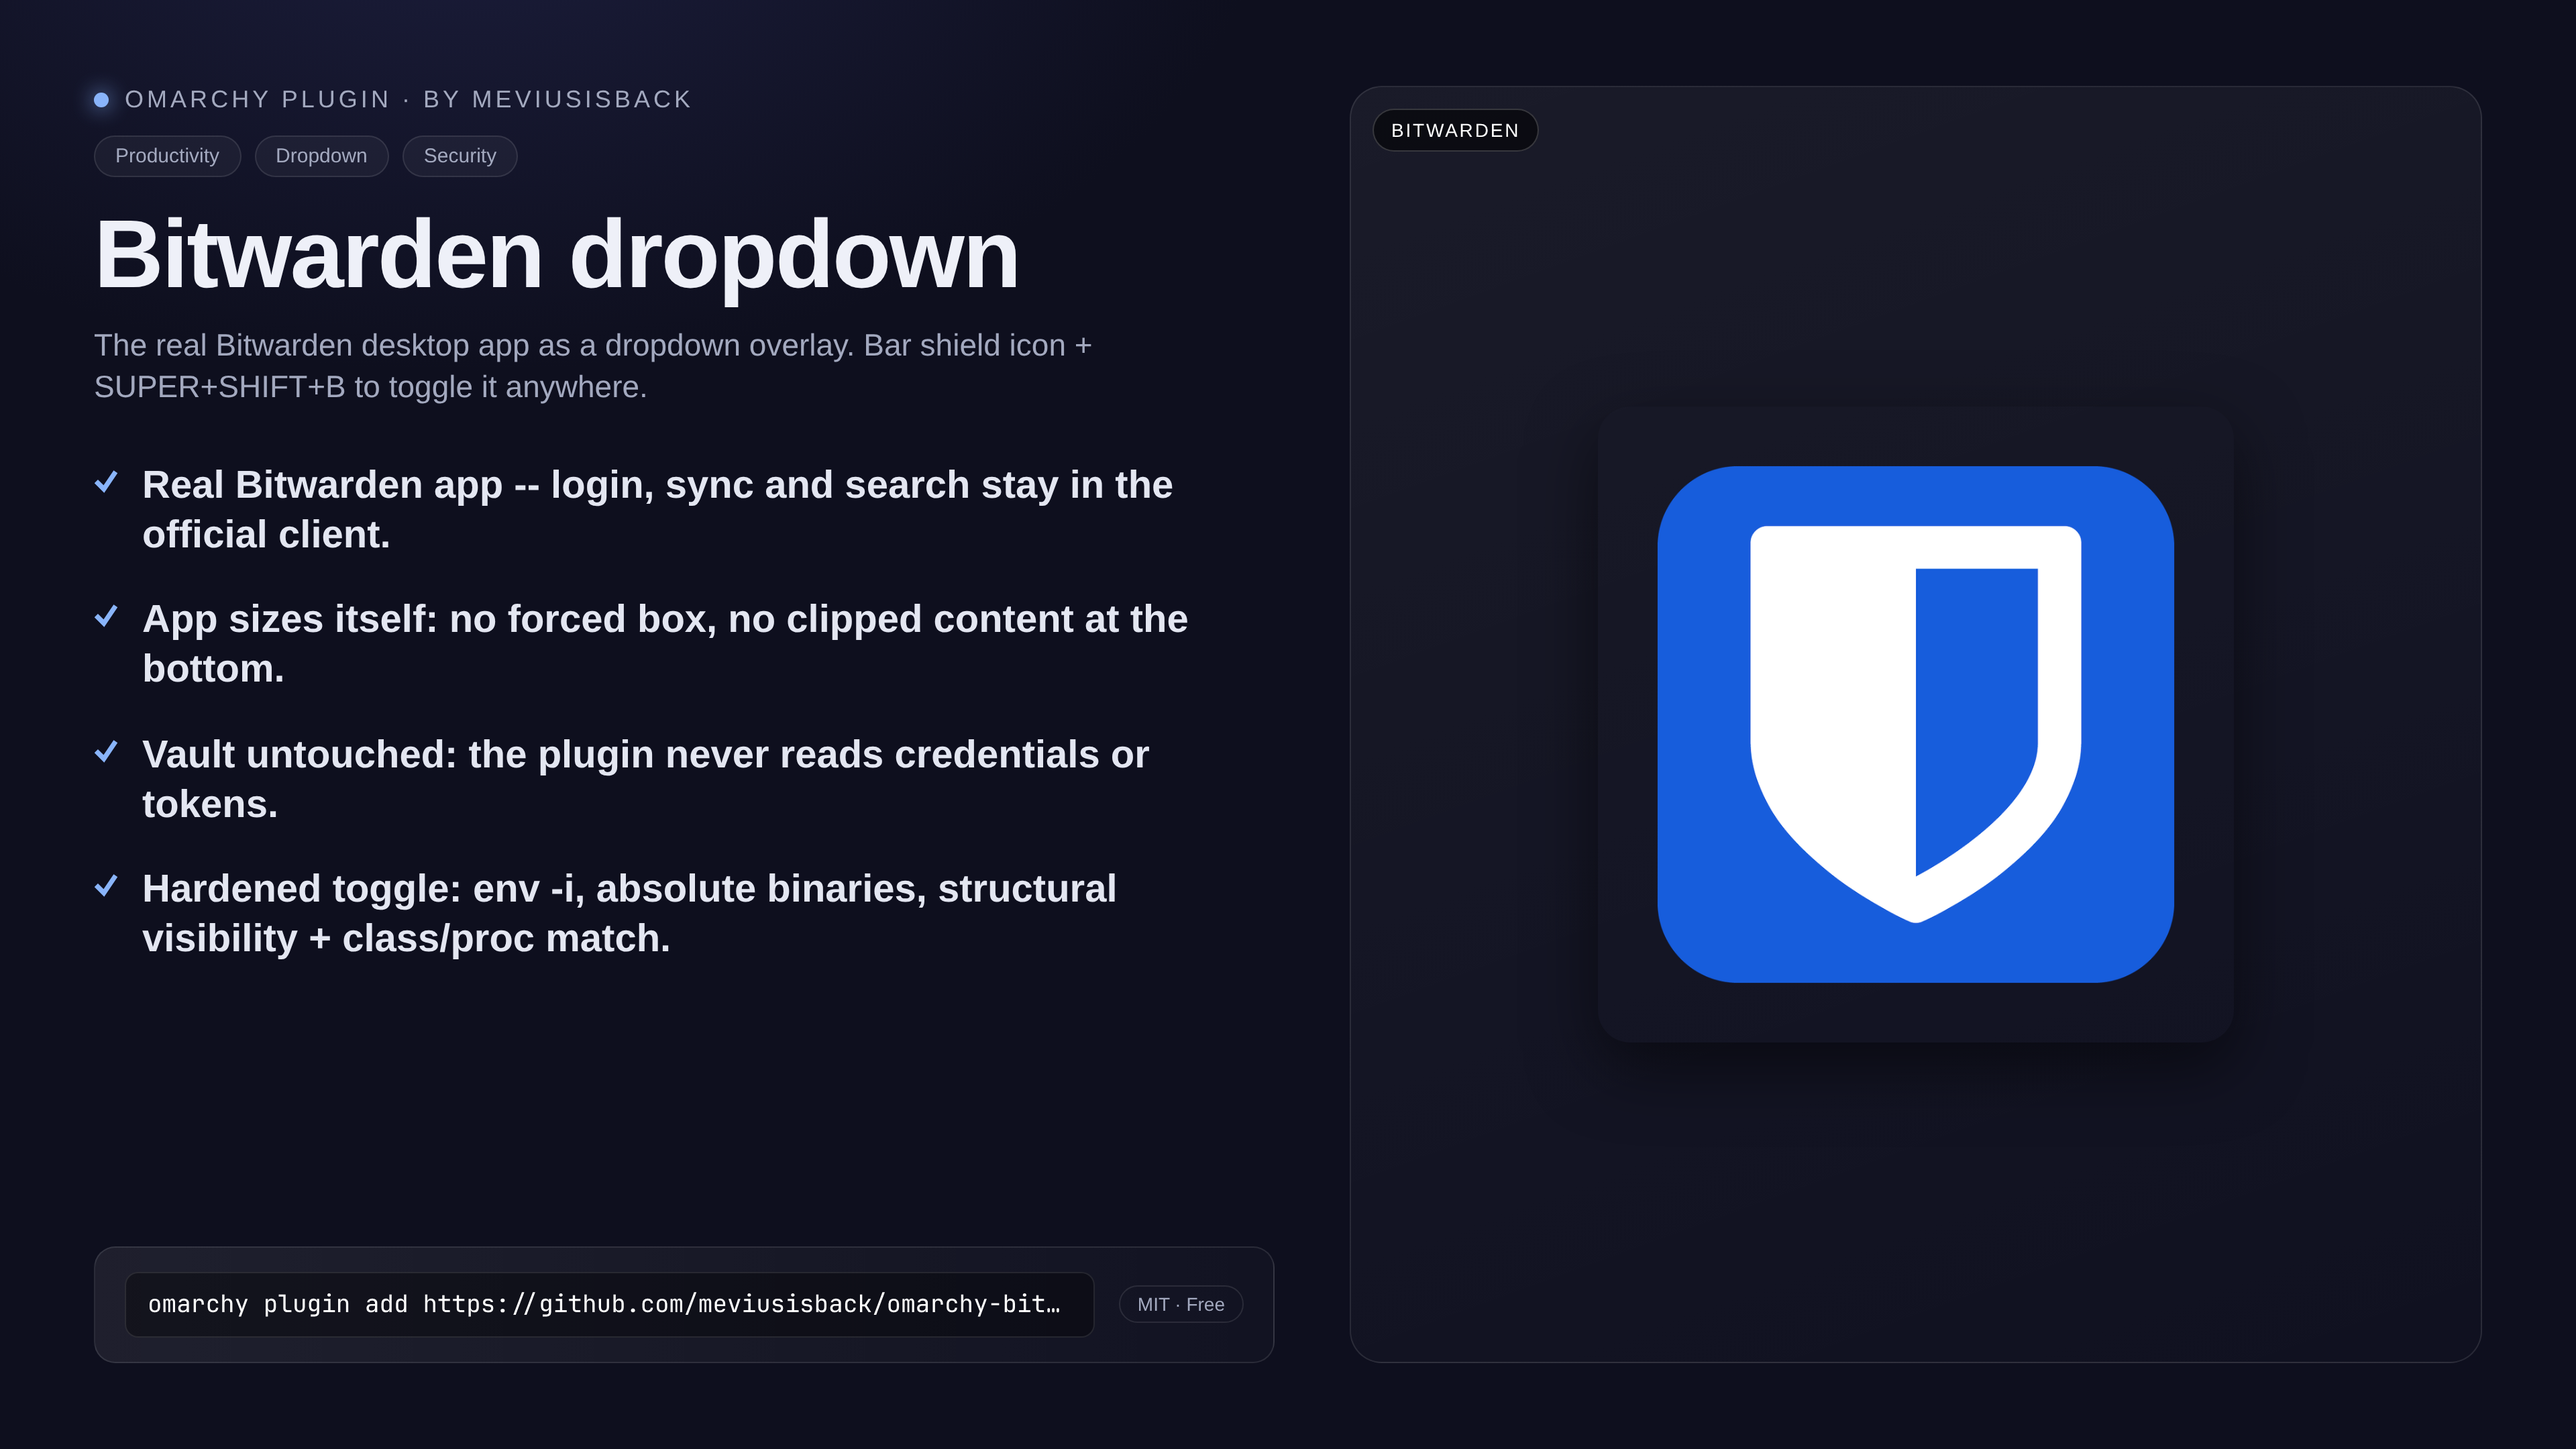
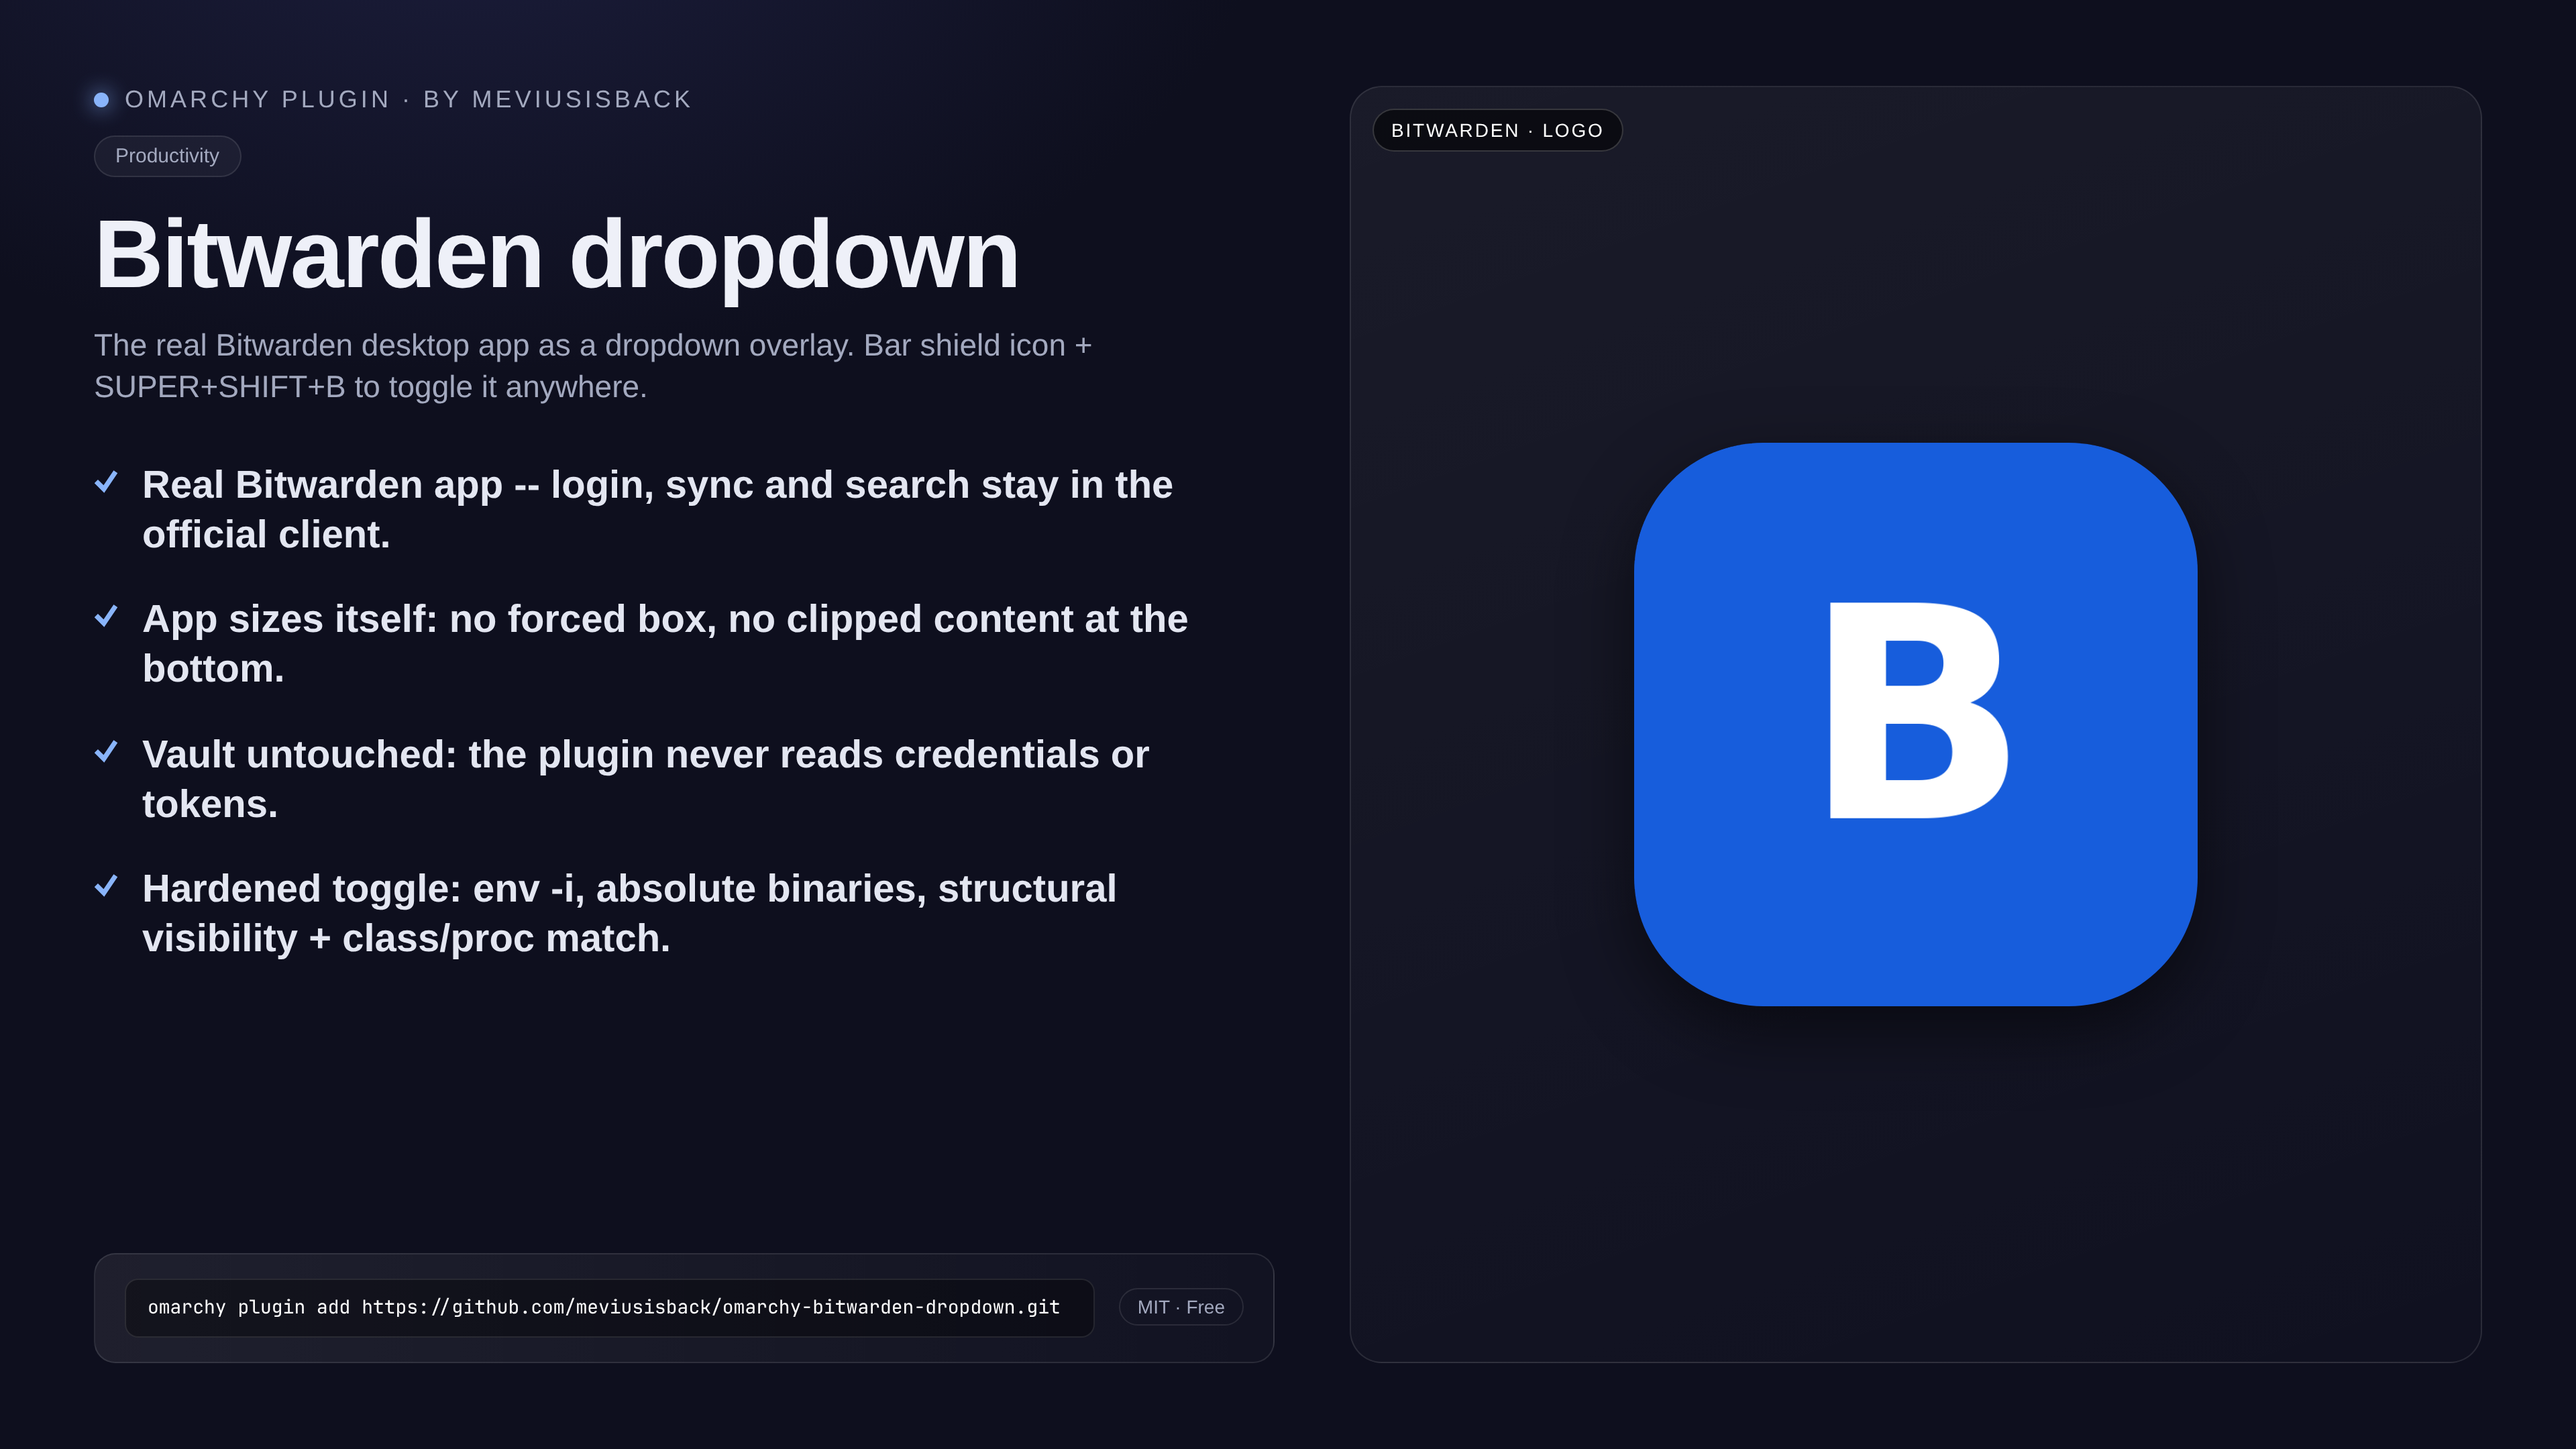
docs: refresh bitwarden-dropdown-infographic.png + README Screenshot section
- Category chip fixed to marketplace-valid Productivity only
- Install command now renders fully on one line (no ellipsis)
- Badge says LOGO: right panel is a letter logo placeholder,
  not a live screenshot (vault = sensitive data)

diff --git a/README.md b/README.md
@@ -3,6 +3,10 @@
 Bitwarden vero (app desktop) come dropdown in sovraimpressione: icona scudo
 sulla barra oppure `SUPER + SHIFT + B` per mostrarla/nasconderla ovunque tu sia.
 
+## Screenshot
+
+![Bitwarden dropdown infographic](bitwarden-dropdown-infographic.png)
+
 ## Come funziona
 
 - Widget barra (`BarWidget.qml`, plugin `meviusisback.bitwarden`): bottone scudo,
